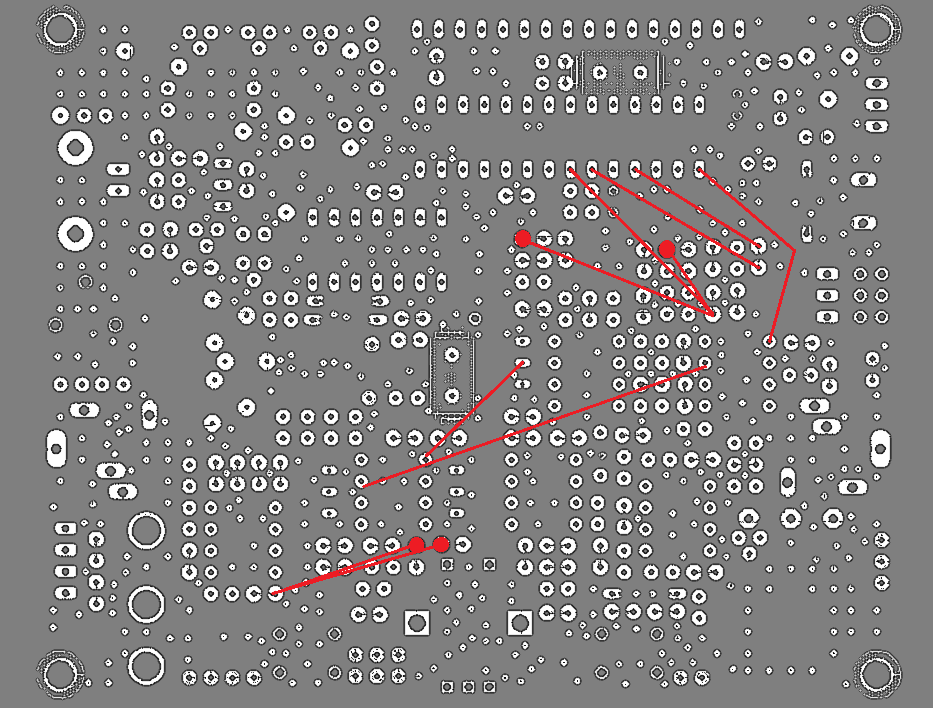
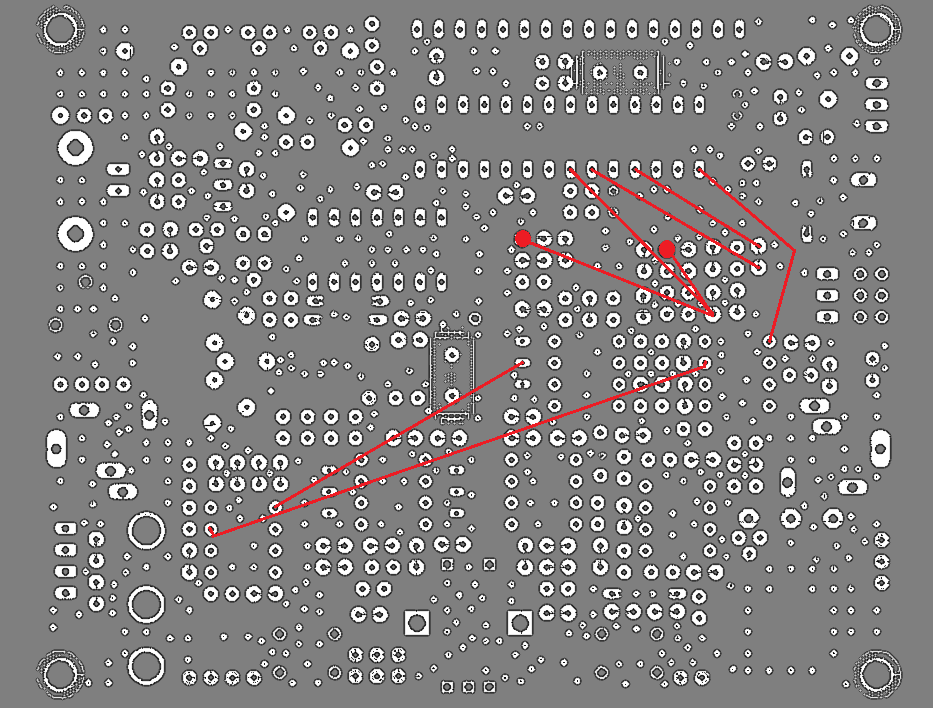
Change code, installation guide, schematic, pcb, layout to support single rx gain stage (reducing overall gain with -18dB).

diff --git a/README.md b/README.md
@@ -33,7 +33,7 @@ pe1nnz@amsat.org
 - An **pre-distorion** algorithm that cancels out the amplitude errors of non-linearities in the PA voltage regulated PWM supply; a lookup table is used that can be calibrated with an internal PA amplitude measurement
 - Possibility to extend the QCX analog phasing stage with a **DSP stage**
 - Could replace the QCX analog phasing stage completely with a **digital SDR receiver stage**, taking away the need for the manual side-band rejection adjustment procedure and delivering DSP features such as the joy of having a **AGC, adjustable CW/SSB filters**
-- Receiver Noise floor **(MDS): –130 dBm** at 24MHz (in 500Hz BW); Blocking dynamic range: 148dB (200kHz offset or greater), 118dB (20kHz offset), 78dB (2kHz offset). Blocking: 18dBm (200kHz offset or greater), -12dBm (20kHz offset), -52dBm (2kHz offset)  _(IC6A/B-gain must reduce with -18 (or maybe even -22) dB!!)_; LO Phase noise: -138dBc/Hz; Front-end selectivity: Octave
+- Receiver Noise floor **(MDS): –131 dBm** at 28MHz (in 500Hz BW); Blocking dynamic range: 148dB (200kHz offset or greater), 118dB (20kHz offset), 78dB (2kHz offset). Blocking: 18dBm (200kHz offset or greater), -12dBm (20kHz offset), -52dBm (2kHz offset); LO Phase noise: -138dBc/Hz; Front-end selectivity: Octave
 - three independent switchable front-end **attenuators (0dB, -13dB, -20dB, -33dB, -53dB, -60dB, -73dB)**
 - This firmware is compatible with an unmodified QCX, partial modified QCX (e.g. SSB mod, or DSP mod), or fully modified QCX (SSB + SDR mod, as described below)
 - SDR implementation simplifies the receiver heaviliy; **the original QCX PCB is now half empty** by moving the analog processing into the microcontroller and adding new and improving existing features. On a new QCX build: 46 components less to be installed, 8 component design changes, 9 additional wires.
@@ -60,8 +60,8 @@ To make the SDR+SSB modification, you need to remove 9 and change 8 components, 
 
 Change the following component values (and type of component in some cases), and wire the following component pins on the backside PCB (some pins must be disconnected from the pad):
 
-1. To implement the SDR receiver: R11,12,17,24,27,29,59,IC10 (remove); IC7-10,R11-13,R17-20,R24-25,R28-40,R59,R60,C9,C11,C13-24,C52-53,D5,Q7 (omit on new builds); change C10 (.1uF); R16,23 (120k); R21 (10k); wire IC10(pin7) to IC6(pin7); wire R27(pin2) to IC6(pin1); wire IC2(pin15) to IC10(pin1); disconnect pin R50(to 5V) and pin R52(to 5V) and both wire to IC2(pin21); disconnect pin R21(to IC6-pin7) and pin R22(to IC6-pin7) and both wire to pin R7(to IC5-pin1).
-_Rationale: This will feed the I/Q signals to the ADC0, ADC1 input, biased at AREF/2 V, the rest of the receiver will be handled in software and audio output is realised on PB1._
+1. To implement the SDR receiver: R11,12,R14,R15,17,59 (remove); IC6-10,R11-40,R59-60,C9-24,C52-53,D5,Q7 (optionally omit on new builds); change R7,10(82k); C4,C7(1nF); wire IC2(pin15) to IC10(pin1); disconnect R50-(to 5V) pin and R52-5V and both wire to IC2(pin25); disconnect pin C39(to R27) and wire to IC5(pin1); disconnect pin C40(-to R27) and wire to IC5(pin7).
+_Rationale: This will feed the amplified I/Q signals to the ADC0, ADC1 input, biased at AREF/2 V, the rest of the receiver will be handled in software and audio output is realised on PB1. For more sensitivity on the higher bands, there is this [2-stage QCX-SDR modification]._
 2. To implement the SSB transmitter: change D4,R56 (10k); R58 (.22uF); C32 (10uF); C31 (remove); wire IC2(pin21) to pin R57(to DVM-pin3); wire IC2(pin20) to DVM(pin2); wire IC2(pin18) to junction D4-C42-R58.
 _Rationale: This will bias the mic input (at DAH line) with 5V and pass the audio to ADC2, biased at AREF/2 V; the key-shaping circuit is digitally switching the voltage supply to the PA (or alternatively directly controlled via PA bias<sup>[note 3](#note3)</sup>)._
 3. To implement multiband support: C1,C5,C8,T1,R64 (remove); at T1 landing pattern (see [QCX Assembly instruction] page 53) install R (1K) over 6-8; R (1K) over 3-4; C (10nF) over 4-8; C30 (30pF); L4 (1uH/16t); replace C25-28,L1-L3 with different LPFs as you wish.
@@ -163,7 +163,7 @@ The following performance measurements were made with QCX-SSB R1.01, a modified 
 - Alternatively, in case you have an [Arduino] environment installed, you can upload the [QCX-SSB Sketch] directly from the Arduino environment (without using AVRDudess and firmware file); make sure "Tools > Board > Arduino/Genuino Uno",  "Tools > Port > /dev/ttyUSB0 or ttyACM0", and then "Sketch > Upload" is selected, while the ATMEGA328P chip is placed in the Arduino UNO socket. It is also possible to use [Arduino as ISP] method: upload this variation of [ArduinoISP] to the Arduino board and select "Tools > Programmer > Arduino as ISP", and "Sketch > Upload Using Programmer".
 2. <a name="note2"/>The occupied SSB bandwidth can be further reduced by restricting the maximum phase change (set MAX_DP to half a unit-circle _UA/2 (equivalent to 180 degrees)). The sensitivity of the VOX switching can be set with parameter VOX_THRESHOLD. Audio-input can be attenuated by increasing parameter MIC_ATTEN (6dB per step).
 3. Alternatively, the PA MOSFETs can be directly biased by the PWM envelope signal, basically making the key-shaping circuit redundant. To do so, Q6,Q4,R41,R42,C32,C31 can be removed entirely, whereby C-E pads of Q6 are wired, and where a 100nF capacitor is inserted at IC3A-pin3 and G of Q1-3, and where a 10k resistor is placed at G-D pads of Q4, a 10nF capacitor between S-D pads of Q4, and where a 10k resistor is placed between D of Q4 and G of Q1-3.
-4. Experimental alternative for 18dB less overall receiver gain and a single receiver gain stage only: To implement the SDR receiver: R11,12,R14,R15,17,59 (remove); change R7,10(47k); change C4,C7(2nF); IC6-10,R11-40,R59-60,C9-24,C52-53,D5,Q7 (omit on new builds); wire IC2(pin15) to IC10(pin1); disconnect R50-(to 5V) pin and R52-5V and both wire to IC2(pin25); disconnect pin C39(to R27) and wire to IC5(pin1); disconnect pin C40(-to R27) and wire to IC5(pin7).
+
 
 ### Credits:
 [QCX] (QRP Labs CW Xcvr) is a kit designed by _Hans Summers (G0UPL)_, originally built for RSGB's YOTA summer camp 2017, a high performance, image rejecting DC transceiver; basically a simplified implementation of the [NorCal 2030] by _Dan Tayloe (N7VE)_ designed in 2004 combined with a [Hi-Per-Mite] Active Audio CW Filter by _David Cripe (NMØS)_, [Low Pass Filters] from _Ed (W3NQN)_ 1983 Articles, a key-shaping circuit by _Donald Huff (W6JL)_, a BS170 switched [CMOS driven MOSFET PA] architecture as used in the [ATS] designs by _Steven Weber (KD1JV)_ (originating from the [Power MOSFET revolution] in the mid 70s), and combined with popular components such as Atmel [ATMEGA328P] microprocessor, a Hitachi [HD44780] LCD display and a Silicon Labs [SI5351] Clock Generator (and using a [phase shift in the SI5351 clocks]). The [QCX-SSB] transmitter and QCX-SDR receiver stage both running on a ATMEGA328P, including its multiband front-end and direct PA biasing/envelope-generation technique; its concept, circuit, code and modification to run on a QCX are a design by _Guido (PE1NNZ)_; the software-based SSB transmit stage is a derivate of earlier experiments with a [digital SSB generation technique] on a Raspberry Pi.
@@ -185,6 +185,8 @@ The following performance measurements were made with QCX-SSB R1.01, a modified 
 [latest released hex file]: https://github.com/threeme3/QCX-SSB/releases
 
 [original QCX-SSB modification]: https://github.com/threeme3/QCX-SSB/tree/26c4e97a034d367e1325c5587a56a7c2a43c69f3
+
+[2-stage QCX-SDR modification]: https://github.com/threeme3/QCX-SSB/tree/653e2d8c387138d30269ffd003065be78cc648ca
 
 [standard QCX firmware upload procedure]: https://www.qrp-labs.com/qcx/qcxfirmware.html
 
